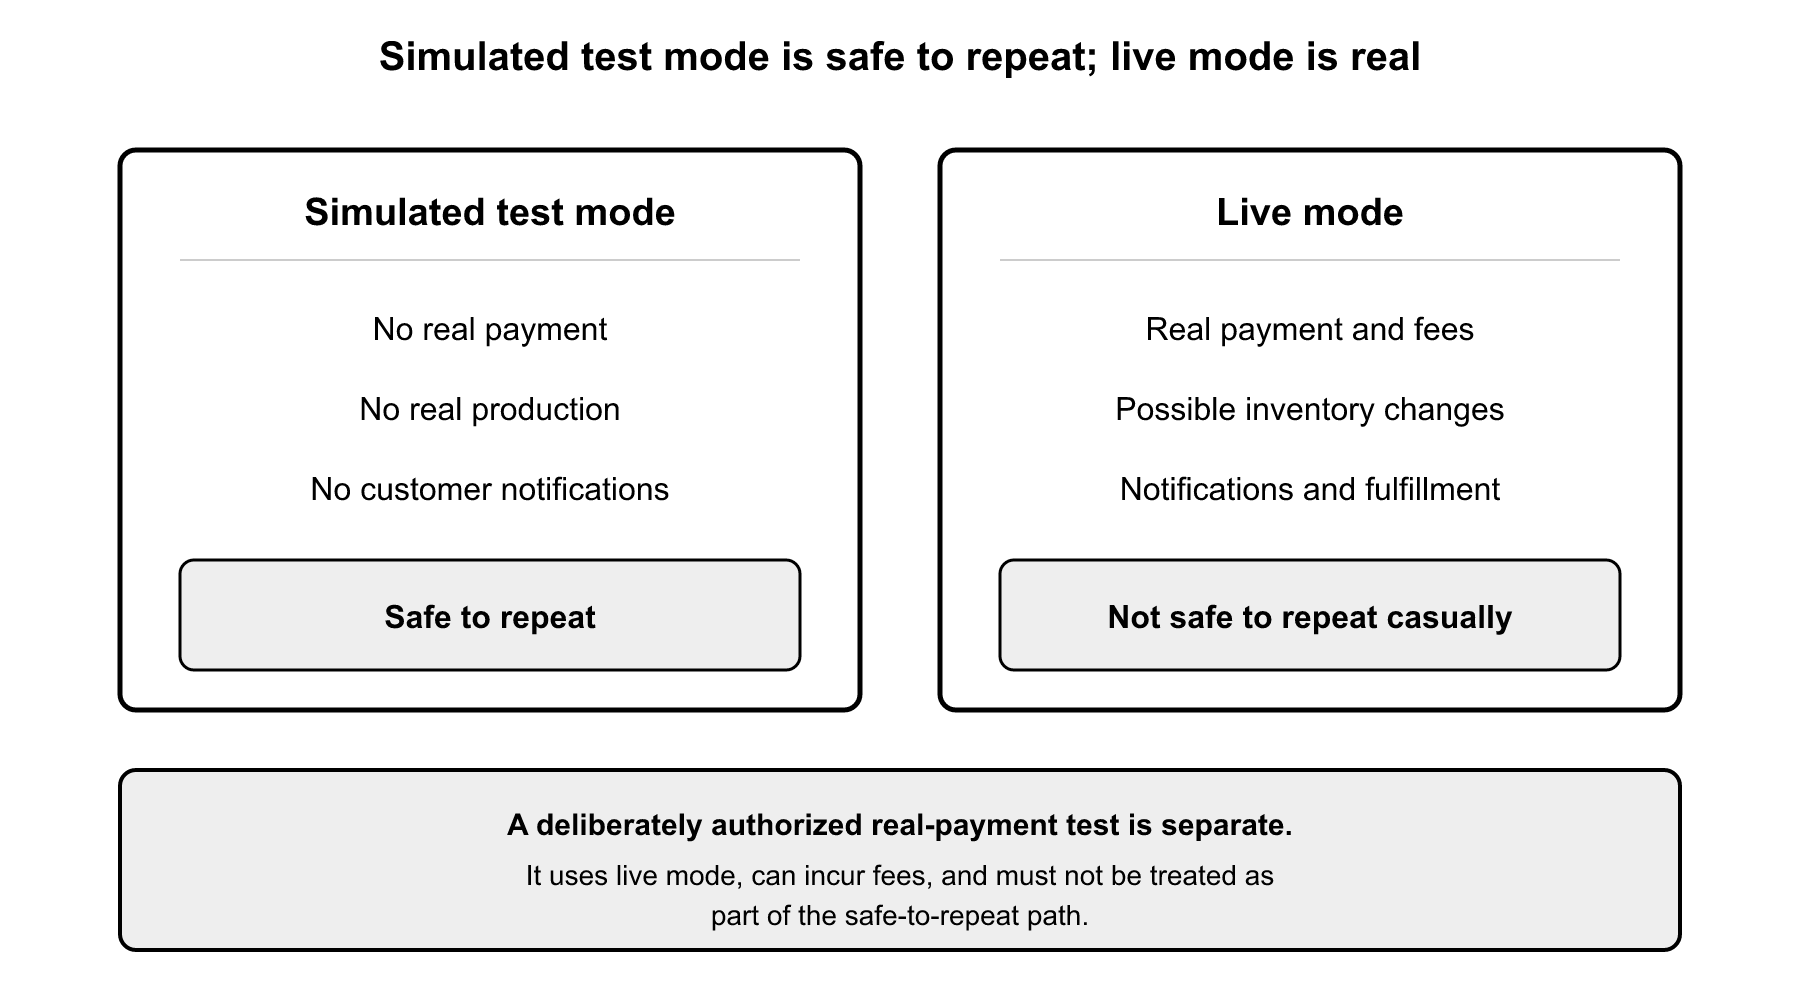
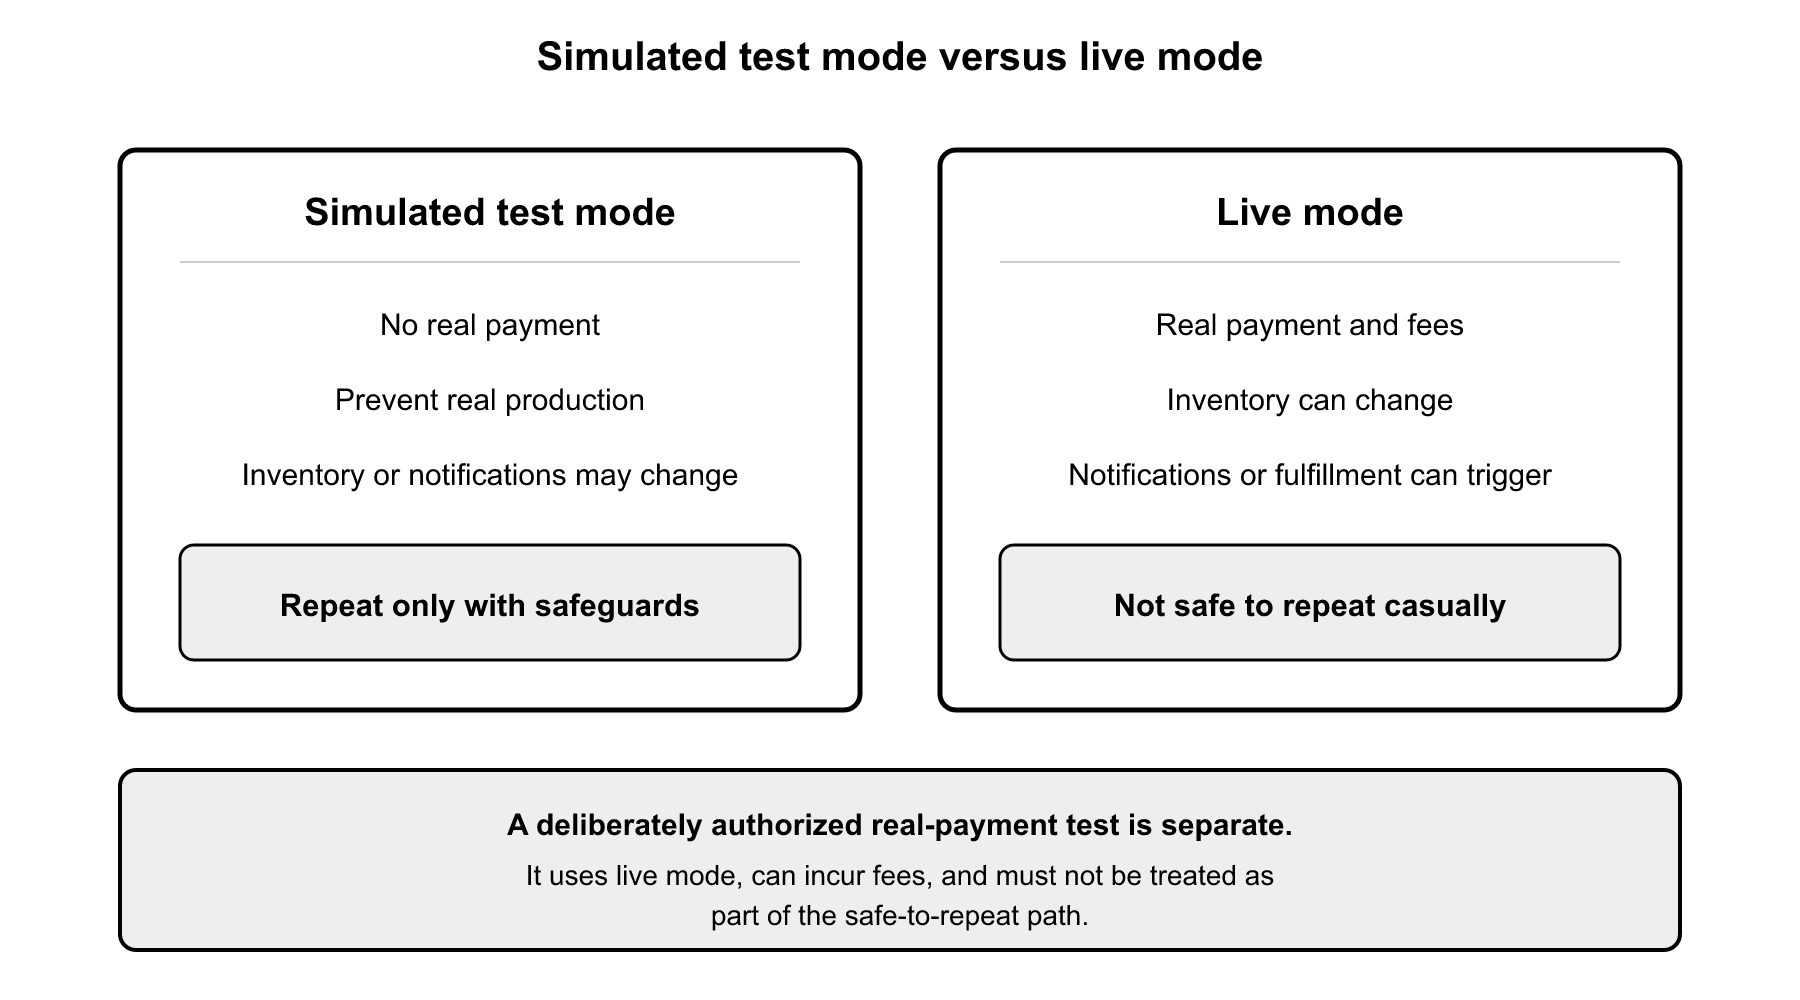
docs: correct simulated-test diagram safeguards

diff --git a/docs/guides/shopify/Build-Your-First-Shopify-Store-DRAFT.md b/docs/guides/shopify/Build-Your-First-Shopify-Store-DRAFT.md
@@ -2501,9 +2501,9 @@ Before enabling test mode, placing an order, changing automation, or processing 
 
 **Diagram: Simulated test mode versus live mode**
 
-![Two columns. Simulated test mode: no real payment, no real production, no customer notifications — safe to repeat. Live mode: real payment and fees, possible inventory changes, notifications and fulfillment — not safe to repeat casually. A note says a deliberately authorized real-payment test is separate, uses live mode, can incur fees, and must not be treated as part of the safe-to-repeat path.](assets/diagrams/test-mode-vs-live.png)
+![Two columns. Simulated test mode: no real payment, prevent real production, inventory or notifications may change, repeat only with safeguards. Live mode: real payment and fees, inventory can change, notifications or fulfillment can trigger, not safe to repeat casually. A note says a deliberately authorized real-payment test is separate, uses live mode, can incur fees, and must not be treated as part of the safe-to-repeat path.](assets/diagrams/test-mode-vs-live.png)
 
-*Simulated test mode has no real payment or production and is safe to repeat; live mode is real. A deliberately authorized real-payment test is separate and can incur fees.*
+*An official simulated payment does not move real money, but inventory, notifications, and automation can still change. Prevent real production and use controlled recipients. Live mode can cause real charges and downstream actions.*
 
 ### Step-by-step instructions
 